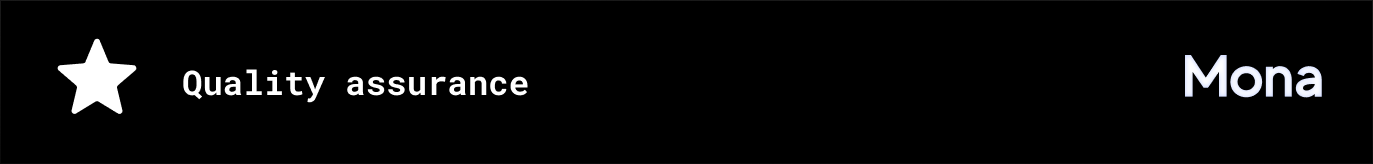
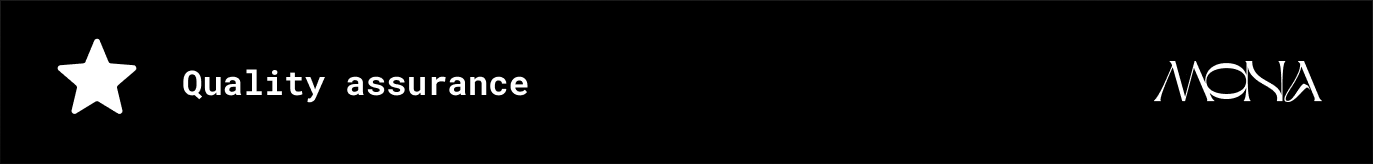
Add warps + Update brand + Change Inspector setup

Changed region(s): [[0.8259, 0.3354, 0.9789, 0.6402]]

diff --git a/Assets/Mona/Inspectors/WarpInspector.cs b/Assets/Mona/Inspectors/WarpInspector.cs
@@ -1,0 +1,23 @@
+#if UNITY_EDITOR
+using UnityEngine;
+using UnityEditor;
+
+namespace Mona
+{
+    [CustomEditor(typeof(MonaWarp))]
+    public class WarpInspector : Editor
+    {
+        public override void OnInspectorGUI()
+        {
+            Texture banner = (Texture)AssetDatabase.LoadAssetAtPath("Assets/Resources/Editor/warp.png", typeof(Texture));
+            if (banner)
+            {
+                GUI.DrawTexture(new Rect(0, 0, 498, 66), banner, ScaleMode.ScaleToFit, false);
+            }
+            GUILayout.Space(60);
+
+            base.DrawDefaultInspector();
+        }
+    }
+}
+#endif

diff --git a/Assets/Mona/TemplateScripts/MonaWarp.cs b/Assets/Mona/TemplateScripts/MonaWarp.cs
@@ -1,0 +1,13 @@
+using UnityEngine;
+
+namespace Mona
+{
+    public partial class MonaWarp : MonoBehaviour
+    {
+        [Tooltip("The point in space to warp the player")]
+        public GameObject WarpPoint;
+
+        [Tooltip("Reset the rotation of the player to the warp point rotation")]
+        public bool UseRotation;
+    }
+}
